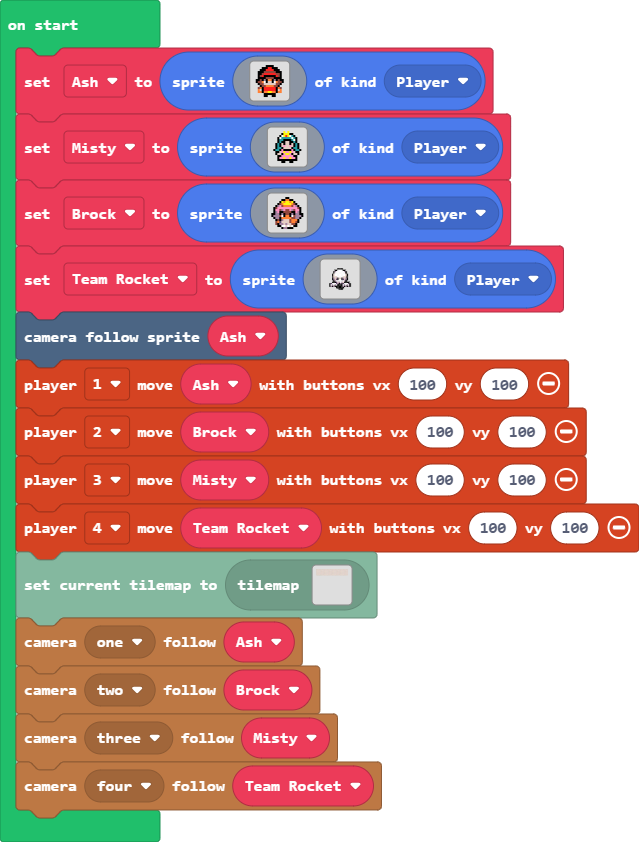
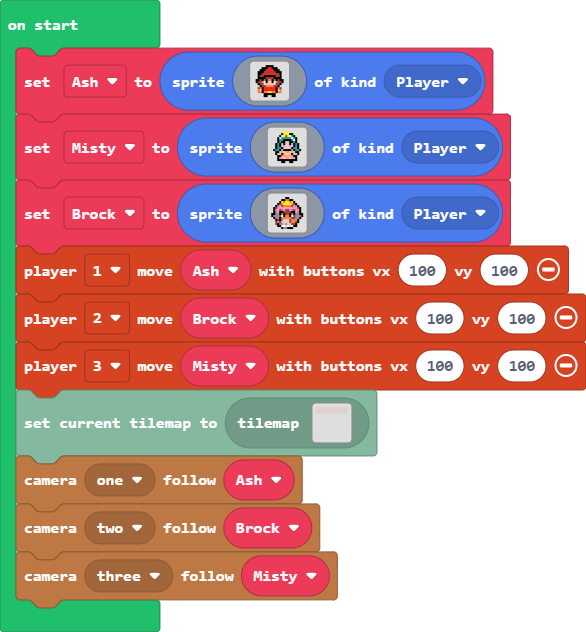
Update pxt.json, main.blocks, main.ts

diff --git a/main.ts b/main.ts
@@ -52,39 +52,10 @@ let Brock = sprites.create(img`
     . . . f f 1 1 d 1 d 1 f f . . . 
     . . . . . f b b f f f . . . . . 
     `, SpriteKind.Player)
-let Team_Rocket = sprites.create(img`
-    ........................
-    ........................
-    ........................
-    ........................
-    ..........ffff..........
-    ........ff1111ff........
-    .......fb111111bf.......
-    .......f11111111f.......
-    ......fd11111111df......
-    ......fd11111111df......
-    ......fddd1111dddf......
-    ......fbdbfddfbdbf......
-    ......fcdcf11fcdcf......
-    .......fb111111bf.......
-    ......fffcdb1bdffff.....
-    ....fc111cbfbfc111cf....
-    ....f1b1b1ffff1b1b1f....
-    ....fbfbffffffbfbfbf....
-    .........ffffff.........
-    ...........fff..........
-    ........................
-    ........................
-    ........................
-    ........................
-    `, SpriteKind.Player)
-scene.cameraFollowSprite(Ash)
 controller.player1.moveSprite(Ash, 100, 100)
 controller.player2.moveSprite(Brock, 100, 100)
 controller.player3.moveSprite(Misty, 100, 100)
-controller.player4.moveSprite(Team_Rocket, 100, 100)
 tiles.loadMap(tiles.createMap(tilemap`level1`))
 splitScreen.cameraFollowSprite(splitScreen.Camera.Camera1, Ash)
 splitScreen.cameraFollowSprite(splitScreen.Camera.Camera2, Brock)
 splitScreen.cameraFollowSprite(splitScreen.Camera.Camera3, Misty)
-splitScreen.cameraFollowSprite(splitScreen.Camera.Camera4, Team_Rocket)
